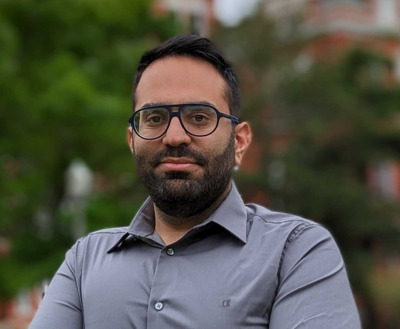
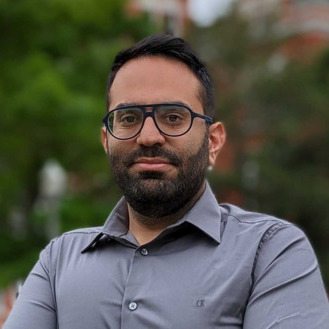
Deploying to gh-pages from @ mphowardlab/mphowardlab.github.io@75e0d0e32304c06b05df6716c4b831e8627f84bf 🚀

diff --git a/members/matthew-do.html b/members/matthew-do.html
@@ -38,47 +38,39 @@
 
 <meta name="viewport" content="width=device-width, initial-scale=1">
 
-<title>Example post 3 | mphoward lab</title>
+<title>Matthew Do | mphoward lab</title>
 
 <link rel="icon" href="">
 
-<meta name="title" content="Example post 3">
+<meta name="title" content="Matthew Do">
 <meta name="description" content="An engaging 1-3 sentence description of your lab.">
 
-<meta property="og:title" content="Example post 3">
+<meta property="og:title" content="Matthew Do">
 <meta property="og:site_title" content="mphoward lab">
 <meta property="og:description" content="An engaging 1-3 sentence description of your lab.">
 <meta property="og:url" content="">
 <meta property="og:image" content="">
 <meta property="og:locale" content="en_US">
 
-<meta property="twitter:title" content="Example post 3">
+<meta property="twitter:title" content="Matthew Do">
 <meta property="twitter:description" content="An engaging 1-3 sentence description of your lab.">
 <meta property="twitter:url" content="">
 <meta property="twitter:card" content="summary_large_image">
 <meta property="twitter:image" content="">
 
 
-  <meta name="author" content="john-doe">
-  <meta property="og:type" content="article">
-  <meta property="og:updated_time" content="2023-06-01T17:08:44+00:00">
-  <meta property="article:published_time" content="2023-02-23T00:00:00+00:00">
-  <meta property="article:modified_time" content="2023-06-01T17:08:44+00:00">
-  <meta name="revised" content="2023-06-01T17:08:44+00:00">
+  <meta property="og:type" content="website">
 
 
 <script type="application/ld+json">
   {
     "@context": "https://schema.org",
     
-      "@type": "BlogPosting",
-      "author": { "@type": "Person", "name": "Example post 3" },
-      "datePublished": "2023-02-23T00:00:00+00:00",
-      "dateModified": "2023-06-01T17:08:44+00:00",
+      "@type": "WebSite",
     
-    "name": "Example post 3",
+    "name": "Matthew Do",
     "description": "An engaging 1-3 sentence description of your lab.",
-    "headline": "Example post 3",
+    "headline": "Matthew Do",
     "publisher": {
       "@type": "Organization",
       "logo": { "@type": "ImageObject", "url": "" }
@@ -402,93 +394,72 @@
   
 
   <section class="background" data-size="page" data-dark="">
-    <h1 class="center">Example post 3</h1>
-
-<div class="post-info">
+    <div class="cols" style="--cols: 2">
   
     
+    <div>
+<div class="portrait-wrapper">
+  <span href="/members/matthew-do.html" class="portrait" data-style="">
+    <img src="/images/matthew-do.jpg" class="portrait-image" loading="lazy" onerror="this.src = '/images/fallback.svg'; this.onerror = null;">
+
     
-      <span data-tooltip="Author">
-        <i class="icon fa-solid fa-feather-pointed"></i>
-        <span>john-doe</span>
+      <span class="portrait-text">
+        
+          <span class="portrait-name">
+            Matthew Do
+          </span>
+        
+
+        
+          <span class="portrait-role">
+            
+            <i class="icon fa-solid fa-user-graduate"></i>
+            <span>Undergraduate Student</span>
+          </span>
+        
       </span>
     
-  
+  </span>
+</div>
 
+<div>
   
-  
+    
+    
+    
 
-  
-    <span data-tooltip="Originally published on">
-      <i class="icon fa-regular fa-calendar"></i>
-      <span>February 23, 2023</span>
-    </span>
-  
 
-  
-    <span data-tooltip="Last updated on">
-      <i class="icon fa-solid fa-clock-rotate-left"></i>
-      <span>June 01, 2023</span>
-    </span>
+
+  <div class="button-wrapper">
+    <a class="button" href="mailto:mdd0046@auburn.edu" data-tooltip="Email" data-style="bare">
+      <i class="icon fa-solid fa-envelope"></i>
+      
+        <span>Email</span>
+      
+    </a>
+  </div>
+
+
   
 </div>
 
-
+</div>
   
-
-
-  <div class="tags" data-link="/blog">
     
-      <a href='/blog?search="tag:%20biology"' class="tag" data-tooltip='Show items with the tag "biology"'>
-        biology
-      </a>
-    
-      <a href='/blog?search="tag:%20medicine"' class="tag" data-tooltip='Show items with the tag "medicine"'>
-        medicine
-      </a>
-    
-  </div>
-  </section>
+    <div>
+<h2 id="biography">Biography</h2>
+<p>Matthew joined the lab in Summer 2023 through the <a href="https://www.comsefscholars.org">CoMSEF Scholars REU</a>. As a
+student in both chemical engineering and computer science, he is coding an
+updated software for simulating hydrodynamic interactions in soft materials using
+the multiparticle collision dynamics (MPCD) method. He will graduate from Auburn
+in May 2024.</p>
 
+<p><a href="/publications/?search=%22Matthew%20Do%22%20">
+  See Matthew Do’s papers
+</a></p>
+
+</div>
   
-  
-  
-
-  <section class="background" data-size="page" data-dark="">
-    <!--
-  background: ;
-  dark: ;
-  size: ;
--->
-
-
-<p>Lorem ipsum dolor sit amet, consectetur adipiscing elit, sed do eiusmod tempor incididunt ut labore et dolore magna aliqua.</p>
-  </section>
-
-  
-  
-  
-
-  <section class="background" data-size="page" data-dark="">
-    <!--
-  background: ;
-  dark: ;
-  size: ;
--->
-
-
-<div class="post-nav">
-  <span>
-    
-      <i class="icon fa-solid fa-angle-left"></i> Previous post<br>
-      <a href="/2021/09/30/example-post-2.html">
-        Example post 2
-      </a>
-    
-  </span>
-  <span>
-    
-  </span>
 </div>
   </section>
 

diff --git a/2019/01/07/example-post-1.html b/2019/01/07/example-post-1.html
@@ -61,10 +61,10 @@
 
   <meta name="author" content="sarah-johnson">
   <meta property="og:type" content="article">
-  <meta property="og:updated_time" content="2023-05-31T15:06:39+00:00">
+  <meta property="og:updated_time" content="2023-06-01T17:08:44+00:00">
   <meta property="article:published_time" content="2019-01-07T00:00:00+00:00">
-  <meta property="article:modified_time" content="2023-05-31T15:06:39+00:00">
-  <meta name="revised" content="2023-05-31T15:06:39+00:00">
+  <meta property="article:modified_time" content="2023-06-01T17:08:44+00:00">
+  <meta name="revised" content="2023-06-01T17:08:44+00:00">
 
 
 <script type="application/ld+json">
@@ -74,7 +74,7 @@
       "@type": "BlogPosting",
       "author": { "@type": "Person", "name": "Example post 1" },
       "datePublished": "2019-01-07T00:00:00+00:00",
-      "dateModified": "2023-05-31T15:06:39+00:00",
+      "dateModified": "2023-06-01T17:08:44+00:00",
     
     "name": "Example post 1",
     "description": "An engaging 1-3 sentence description of your lab.",
@@ -428,7 +428,7 @@
   
     <span data-tooltip="Last updated on">
       <i class="icon fa-solid fa-clock-rotate-left"></i>
-      <span>May 31, 2023</span>
+      <span>June 01, 2023</span>
     </span>
   
 </div>

diff --git a/2021/09/30/example-post-2.html b/2021/09/30/example-post-2.html
@@ -61,10 +61,10 @@
 
   <meta name="author" content="jane-smith">
   <meta property="og:type" content="article">
-  <meta property="og:updated_time" content="2023-05-31T15:06:39+00:00">
+  <meta property="og:updated_time" content="2023-06-01T17:08:44+00:00">
   <meta property="article:published_time" content="2021-09-30T00:00:00+00:00">
-  <meta property="article:modified_time" content="2023-05-31T15:06:39+00:00">
-  <meta name="revised" content="2023-05-31T15:06:39+00:00">
+  <meta property="article:modified_time" content="2023-06-01T17:08:44+00:00">
+  <meta name="revised" content="2023-06-01T17:08:44+00:00">
 
 
 <script type="application/ld+json">
@@ -74,7 +74,7 @@
       "@type": "BlogPosting",
       "author": { "@type": "Person", "name": "Example post 2" },
       "datePublished": "2021-09-30T00:00:00+00:00",
-      "dateModified": "2023-05-31T15:06:39+00:00",
+      "dateModified": "2023-06-01T17:08:44+00:00",
     
     "name": "Example post 2",
     "description": "An engaging 1-3 sentence description of your lab.",
@@ -428,7 +428,7 @@
   
     <span data-tooltip="Last updated on">
       <i class="icon fa-solid fa-clock-rotate-left"></i>
-      <span>May 31, 2023</span>
+      <span>June 01, 2023</span>
     </span>
   
 </div>

diff --git a/people/index.html b/people/index.html
@@ -628,6 +628,30 @@
 </div>
 
 <div class="portrait-wrapper">
+  <a href="/members/matthew-do.html" class="portrait" data-style="">
+    <img src="/images/matthew-do.jpg" class="portrait-image" loading="lazy" onerror="this.src = '/images/fallback.svg'; this.onerror = null;">
+
+    
+      <span class="portrait-text">
+        
+          <span class="portrait-name">
+            Matthew Do
+          </span>
+        
+
+        
+          <span class="portrait-role">
+            
+            <i class="icon fa-solid fa-user-graduate"></i>
+            <span>Undergraduate Student</span>
+          </span>
+        
+      </span>
+    
+  </a>
+</div>
+
+<div class="portrait-wrapper">
   <a href="/members/noah-frison.html" class="portrait" data-style="">
     <img src="/images/photo.jpg" class="portrait-image" loading="lazy" onerror="this.src = '/images/fallback.svg'; this.onerror = null;">
 
